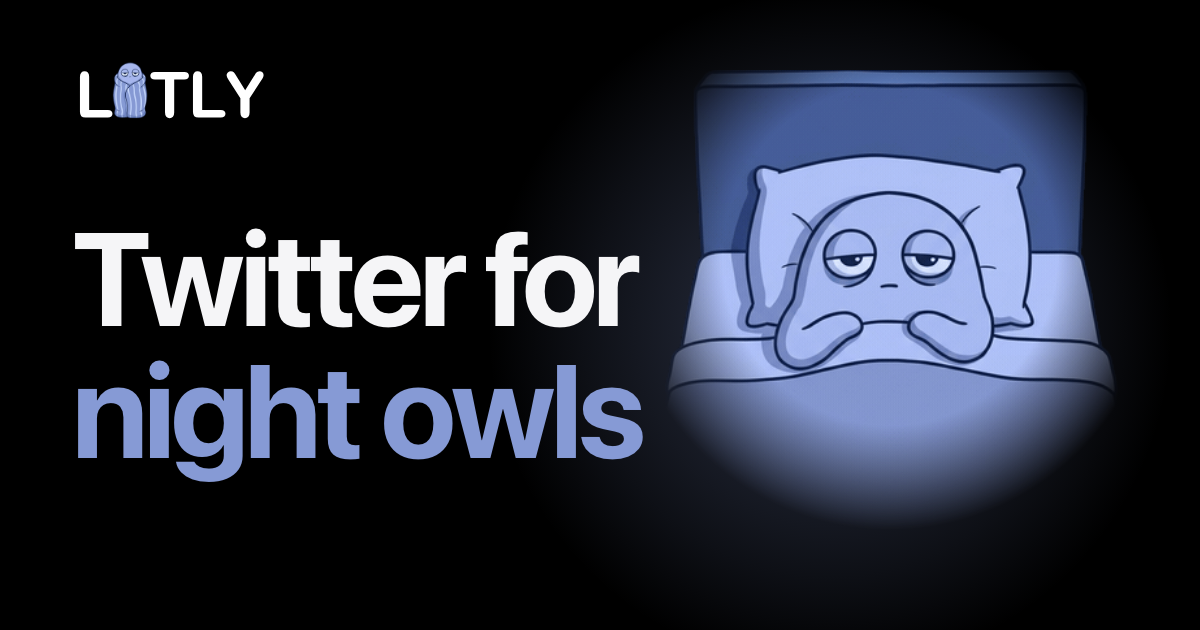
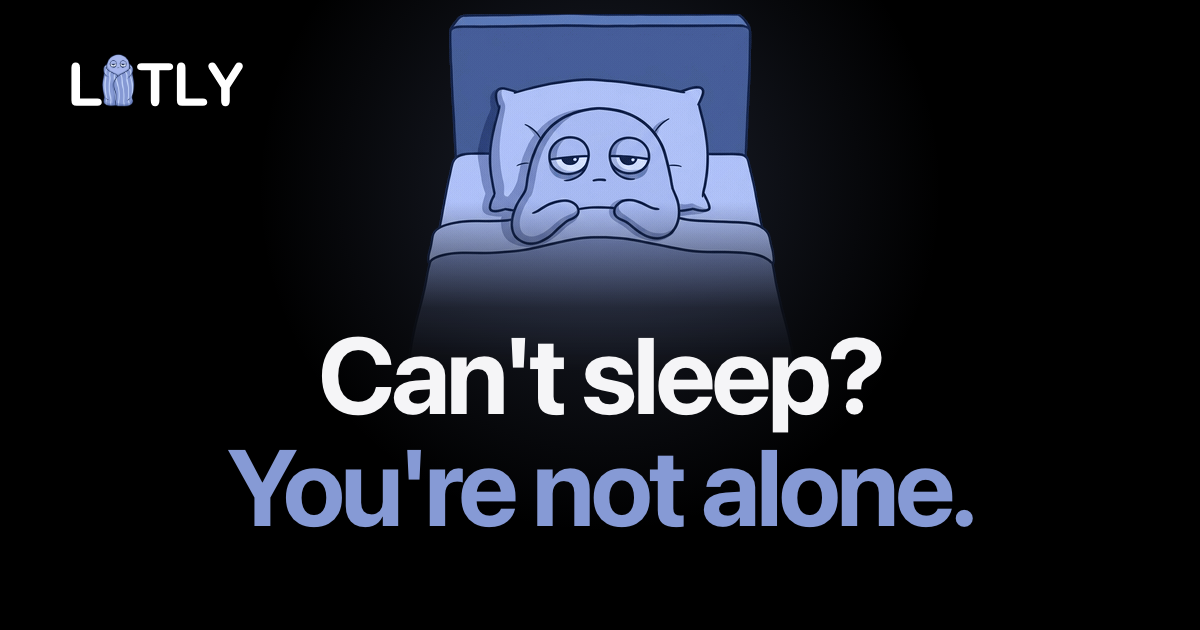
OG image: original layout with 'You're not alone.' replacing the subtext

diff --git a/public/index.html b/public/index.html
@@ -18,21 +18,21 @@
   <meta property="og:site_name" content="Litly">
   <meta property="og:type" content="website">
   <meta property="og:url" content="https://litly.com">
-  <meta property="og:title" content="Litly: Twitter for night owls">
+  <meta property="og:title" content="Can't sleep?">
   <meta property="og:image" content="https://litly.com/og-v3.png">
   <meta property="og:image:secure_url" content="https://litly.com/og-v3.png">
   <meta property="og:image:type" content="image/png">
   <meta property="og:image:width" content="1200">
   <meta property="og:image:height" content="630">
-  <meta property="og:image:alt" content="Litly: Twitter for night owls">
+  <meta property="og:image:alt" content="Litly - Can't sleep? You're not alone.">
   <meta property="og:locale" content="en_US">
 
   <!-- Twitter / X -->
   <meta name="twitter:card" content="summary_large_image">
   <meta name="twitter:url" content="https://litly.com">
-  <meta name="twitter:title" content="Litly: Twitter for night owls">
+  <meta name="twitter:title" content="Can't sleep?">
   <meta name="twitter:image" content="https://litly.com/og-v3.png">
-  <meta name="twitter:image:alt" content="Litly: Twitter for night owls">
+  <meta name="twitter:image:alt" content="Litly - Can't sleep? You're not alone.">
 
   <link rel="preload" href="/sleepless.webp" as="image" type="image/webp" fetchpriority="high">
   <style>

diff --git a/AGENTS.md b/AGENTS.md
@@ -31,7 +31,7 @@ Live at **https://litly.com**. An anonymous "what kept you up last night?" feed.
 - **Accounts:** Sign in with Google or Apple via Better Auth. Real name and email are stored in the `user` table but never shown publicly, and posts/replies never reference accounts. The header shows a "Log in" button, or the person's avatar + username (links to `/account`) when signed in. To avoid flicker, an inline script paints the header from a `litly_me` localStorage cache before first paint, then `/api/profile` confirms it and only repaints on a change; a `litly_pending` flag hides the header while returning from a sign-in. Sessions last 90 days of inactivity (rolling, refreshed daily). `/account` (`public/account.html`) shows the avatar, username and name; `GET/POST /api/profile` assigns a random username (e.g. `hazy_moon_838`) and avatar on first visit, and lets them change both (username 3-20 chars `[a-z0-9_]`, unique). Posting is still anonymous and tied to the IP hash, not the account.
 
 ## Design
-Social preview (Open Graph / Twitter card) image is `public/og-v3.png` (1200x630): black, "Twitter for night owls" with the accent line, logo and the sleeping mascot. No subtext, and no og/twitter description tags. Bump the filename when it changes, since platforms cache these.
+Social preview (Open Graph / Twitter card) image is `public/og-v3.png` (1200x630): black, the sleeping mascot centered over "Can't sleep?" with "You're not alone." in the accent color beneath it, and the logo top-left. No subtext, and no og/twitter description tags. Bump the filename when it changes, since platforms cache these.
 
 Apple-style minimalism: black background, system SF Pro font and a soothing periwinkle accent (`#869ad5`) matching the tired avatar mascot. The brand logo (`public/logo.svg`) features a custom tired mascot wrapped in a blanket in place of the letter "I" (Pixar-style). Favicon suite follows modern web standards: scalable `public/favicon.svg` and multi-resolution 32-bit `public/favicon.ico` (16, 32, 48px) with full alpha transparency, featuring the blanket-wrapped mascot inside an Apple-style rounded black squircle with transparent corners; alongside `public/apple-touch-icon.png` (180x180) and standard PNG icons (`favicon-32x32.png`, `favicon-16x16.png`). The hero features an animated sleeping character (`public/sleepless.webp` with `public/sleepless.gif` fallback, preloaded with high fetch priority) that blinks and yawns over the main headline ("Can't sleep?"). Subhead: "You're not alone. Vent anonymously." The post composer is a compact auto-expanding field featuring a character-by-character typing placeholder cycling punchy late-night thoughts (animating immediately on start). Keep everything else simple, with no decorative noise.
 
